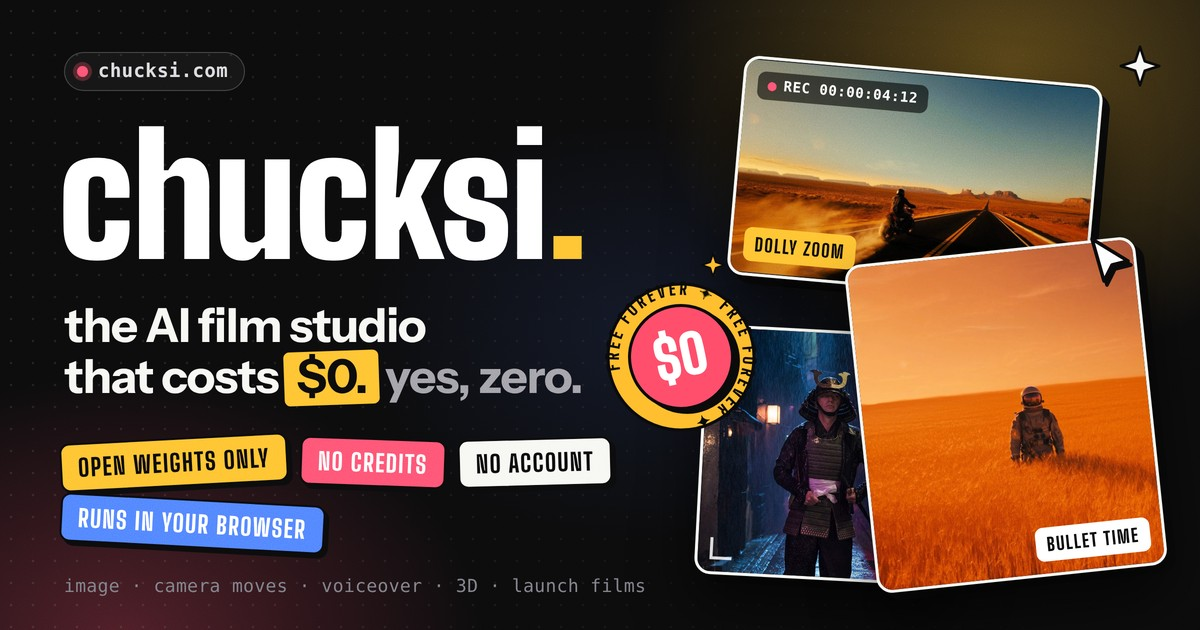
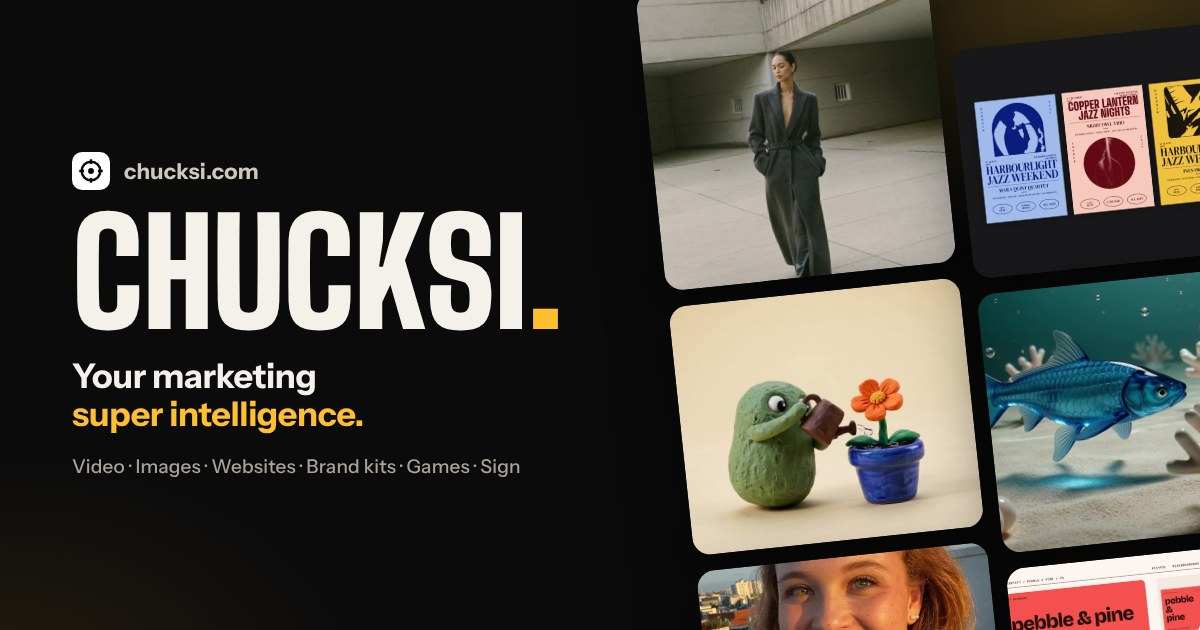
Cleaner Video hub (no Watch buttons, eyebrows or blurbs); new share image
Claude-Session: https://claude.ai/code/session_01PNWM9AuSBWnLEgpmAr6rZE

diff --git a/public/studios/video/index.html b/public/studios/video/index.html
@@ -60,33 +60,17 @@
           ></video>
         </div>
         <div class="hero-copy">
-          <p class="eyebrow">VIDEO STUDIO / CHUCKSI SESSIONS 001</p>
           <h1>IT'S<br /><em>SHOWTIME.</em></h1>
-          <p>
-            One artist. Two worlds. A championship moment, reimagined in motion.
-          </p>
           <div class="hero-actions">
-            <button
-              class="btn-accent"
-              data-watch="/media/music/showtime-animated.mp4"
-              data-title="Showtime · Animated"
-              data-credit=""
-            >
-              ▶ Watch the film</button
-            ><a class="btn-ghost" href="/music">Make a music preview ↗</a>
+            <a class="btn-accent" href="/video">Make a video</a>
           </div>
-          <span class="quiet-note"
-            >Tone Da Boss · animated study</span
-          >
         </div>
       </section>
       <section class="showcase-section">
         <div class="section-title">
           <div>
-            <p class="eyebrow">THE SCREENING ROOM</p>
             <h2>Every world has a rhythm.</h2>
           </div>
-          <p>Fresh films. Distinct styles. Press play.</p>
         </div>
         <div class="examples">
           <button
@@ -105,12 +89,10 @@
                 data-src="/media/music/showtime-transfer.mp4"
                 poster="/media/music/showtime-transfer.jpg"
                 aria-label="Showtime, reimagined"
-              ></video
-              ><span class="card-action">▶ Watch</span>
+              ></video>
             </div>
             <div class="example-copy">
               <h3>Showtime, reimagined</h3>
-              <p>From your photo to the center of the ring.</p>
             </div></button
           ><button
             class="example"
@@ -128,12 +110,10 @@
                 data-src="/media/showcase/clay-garden.mp4"
                 poster="/media/showcase/clay-garden.jpg"
                 aria-label="A little sunshine"
-              ></video
-              ><span class="card-action">▶ Watch</span>
+              ></video>
             </div>
             <div class="example-copy">
               <h3>A little sunshine</h3>
-              <p>Handmade textures. A small moment of magic.</p>
             </div></button
           ><button
             class="example"
@@ -151,21 +131,17 @@
                 data-src="/media/showcase/glass-tide.mp4"
                 poster="/media/showcase/glass-tide.jpg"
                 aria-label="Glass tide"
-              ></video
-              ><span class="card-action">▶ Watch</span>
+              ></video>
             </div>
             <div class="example-copy">
               <h3>Glass tide</h3>
-              <p>Dive into a completely impossible world.</p>
             </div>
           </button>
         </div>
         <div class="section-title">
           <div>
-            <p class="eyebrow">MAKE THESE IN YOUR BROWSER</p>
             <h2>A little motion. A big transformation.</h2>
           </div>
-          <p>Take a still somewhere unexpected.</p>
         </div>
         <div class="examples">
           <a class="example" href="/video?effect=lidar"
@@ -178,12 +154,10 @@
                 data-src="/media/clips/effect-lidar.mp4"
                 poster="/media/clips/effect-lidar-active.jpg"
                 aria-label="See the unseen"
-              ></video
-              ><span class="card-action">Explore ↗</span>
+              ></video>
             </div>
             <div class="example-copy">
               <h3>See the unseen</h3>
-              <p>Turn your image into a sweeping point cloud.</p>
             </div></a
           ><a class="example" href="/video?effect=vanish"
             ><div class="example-media">
@@ -195,12 +169,10 @@
                 data-src="/media/clips/effect-vanish.mp4"
                 poster="/media/clips/effect-vanish-active.jpg"
                 aria-label="Here. Then gone."
-              ></video
-              ><span class="card-action">Explore ↗</span>
+              ></video>
             </div>
             <div class="example-copy">
               <h3>Here. Then gone.</h3>
-              <p>Watch a scene dissolve into drifting particles.</p>
             </div></a
           ><a class="example" href="/video?effect=freeze"
             ><div class="example-media">
@@ -212,12 +184,10 @@
                 data-src="/media/clips/effect-freeze.mp4"
                 poster="/media/clips/effect-freeze.jpg"
                 aria-label="Stop the moment"
-              ></video
-              ><span class="card-action">Explore ↗</span>
+              ></video>
             </div>
             <div class="example-copy">
               <h3>Stop the moment</h3>
-              <p>Push in, freeze time and move around the scene.</p>
             </div></a
           >
         </div>
@@ -235,48 +205,37 @@
         </div>
         <div class="section-title">
           <div>
-            <p class="eyebrow">WORDS INTO PICTURES</p>
             <h2>Write it. Watch it.</h2>
           </div>
-          <p>Short films and series built from your own words.</p>
         </div>
         <div class="examples">
           <a class="example" href="/workflows?make=film-poem"
             ><div class="example-media">
-              <img src="/media/make/thumb-film-poem.webp" alt="Stills from a film poem: framed archive photographs with typed lines" loading="lazy" width="800" height="600" /><span class="card-action">Make it ↗</span>
+              <img src="/media/make/thumb-film-poem.webp" alt="Stills from a film poem: framed archive photographs with typed lines" loading="lazy" width="800" height="600" />
             </div>
             <div class="example-copy">
               <h3>Film poem</h3>
-              <p>A poem becomes a 20 to 40 second film, one frame per line.</p>
             </div></a
           ><a class="example" href="/film"
             ><div class="example-media">
-              <img src="/media/trailer.jpg" alt="A launch film frame" loading="lazy" width="800" height="600" /><span class="card-action">Explore ↗</span>
+              <img src="/media/trailer.jpg" alt="A launch film frame" loading="lazy" width="800" height="600" />
             </div>
             <div class="example-copy">
               <h3>Launch film</h3>
-              <p>A brief becomes a scored kinetic film.</p>
             </div></a
           ><a class="example" href="/workflows?make=festival"
             ><div class="example-media">
-              <img src="/media/make/thumb-festival.webp" alt="Festival posters in two colours" loading="lazy" width="800" height="600" /><span class="card-action">Make it ↗</span>
+              <img src="/media/make/thumb-festival.webp" alt="Festival posters in two colours" loading="lazy" width="800" height="600" />
             </div>
             <div class="example-copy">
               <h3>Festival series</h3>
-              <p>Posters plus feed and story sizes for the event.</p>
             </div></a
           >
         </div>
-        <p class="studio-footnote">
-          Gallery films are showcase studies. The open tools below them
-          run in Chucksi; external video models are not built-in generation
-          engines.
-        </p>
       </section>
     </main>
     <footer class="showcase-footer">
       <a href="/">CHUCKSI / OPEN CREATIVE TOOLS</a>
-      <p>Your idea. Your next experiment.</p>
       <a href="https://github.com/ChuckGPTX/massless">Explore the source ↗</a>
     </footer>
     <dialog class="cinema-dialog">

diff --git a/tools/og/og-src.html b/tools/og/og-src.html
@@ -1,0 +1,31 @@
+<!doctype html><html><head><meta charset="utf-8"><style>
+@font-face{font-family:BSD;src:url(/fonts/big-shoulders-display-latin-900-normal.woff2)}
+@font-face{font-family:IS;src:url(/fonts/instrument-sans-latin-500-normal.woff2);font-weight:500}
+@font-face{font-family:IS;src:url(/fonts/instrument-sans-latin-700-normal.woff2);font-weight:700}
+*{box-sizing:border-box;margin:0}
+body{width:1200px;height:630px;overflow:hidden;background:#0b0b0c;color:#f4f1ea;font-family:IS;position:relative}
+.glow{position:absolute;inset:0;background:radial-gradient(700px 420px at 92% 0%,rgba(255,191,47,.22),transparent 60%),radial-gradient(600px 400px at 0% 110%,rgba(255,191,47,.10),transparent 60%)}
+.left{position:absolute;left:72px;top:0;bottom:0;width:560px;display:flex;flex-direction:column;justify-content:center;gap:22px}
+.logo{display:flex;align-items:center;gap:14px;font:700 22px IS;letter-spacing:.01em;color:#cfc9bd}
+.logo i{width:38px;height:38px;border-radius:10px;background:#fff;display:grid;place-items:center}
+h1{font:900 146px/0.84 BSD;letter-spacing:-.005em;text-transform:uppercase}
+h1 b{color:#ffbf2f}
+.tag{font:700 34px/1.12 IS;letter-spacing:-.01em}
+.tag span{color:#ffbf2f}
+.list{font:500 19px IS;color:#a9a39a;letter-spacing:.01em}
+.grid{position:absolute;right:-70px;top:-40px;width:600px;height:700px;display:grid;grid-template-columns:1fr 1fr;gap:16px;transform:rotate(-6deg)}
+.col{display:flex;flex-direction:column;gap:16px}
+.col:nth-child(2){margin-top:90px}
+.t{border-radius:18px;overflow:hidden;background:#1a1a1d;box-shadow:0 20px 60px rgba(0,0,0,.55)}
+.t img{display:block;width:100%;height:100%;object-fit:cover}
+</style></head><body><div class="glow"></div>
+<div class="left">
+ <div class="logo"><i><svg width="26" height="26" viewBox="0 0 32 32"><circle cx="16" cy="16" r="11.5" fill="none" stroke="#0b0b0c" stroke-width="3"/><circle cx="16" cy="16" r="3.6" fill="#0b0b0c"/><path d="M16 1.5v6M16 24.5v6M1.5 16h6M24.5 16h6" stroke="#0b0b0c" stroke-width="3"/></svg></i>chucksi.com</div>
+ <h1>Chucksi<b>.</b></h1>
+ <p class="tag">Your marketing<br><span>super intelligence.</span></p>
+ <p class="list">Video · Images · Websites · Brand kits · Games · Sign</p>
+</div>
+<div class="grid">
+ <div class="col"><div class="t" style="height:300px"><img src="/media/website/editorial-shop/hero.webp"></div><div class="t" style="height:250px"><img src="/media/showcase/clay-garden.jpg"></div><div class="t" style="height:220px"><img src="/media/website/ai-product/rooftop.webp"></div></div>
+ <div class="col"><div class="t" style="height:230px"><img src="/media/make/thumb-festival.webp"></div><div class="t" style="height:260px"><img src="/media/showcase/glass-tide.jpg"></div><div class="t" style="height:230px"><img src="/media/make/thumb-identity.webp"></div></div>
+</div></body></html>

diff --git a/public/audio/index.html b/public/audio/index.html
@@ -11,12 +11,12 @@
   <meta property="og:url" content="https://chucksi.com/audio">
   <meta property="og:title" content="Free AI voiceover, captions and video to MP3 | Chucksi">
   <meta property="og:description" content="Turn a script into voiceover in six languages with open Kokoro and MeloTTS voices, make captions with Whisper, extract MP3, M4A or WAV from your own videos right in the browser, and render rain, wind or city ambience. $0.">
-  <meta property="og:image" content="https://chucksi.com/og.jpg?v=3">
+  <meta property="og:image" content="https://chucksi.com/og.jpg?v=4">
   <meta property="og:image:width" content="1200">
   <meta property="og:image:height" content="630">
-  <meta property="og:image:alt" content="chucksi. The AI film studio that costs $0. Open weights only, no credits, no account, runs in your browser.">
+  <meta property="og:image:alt" content="Chucksi. Your marketing super intelligence: video, images, websites, brand kits, games and sign.">
   <meta name="twitter:card" content="summary_large_image">
-  <meta name="twitter:image" content="https://chucksi.com/og.jpg?v=3">
+  <meta name="twitter:image" content="https://chucksi.com/og.jpg?v=4">
   <link rel="icon" href="/favicon.ico" sizes="32x32">
   <link rel="icon" href="/favicon.svg" type="image/svg+xml">
   <link rel="apple-touch-icon" href="/apple-touch-icon.png">

diff --git a/public/image/index.html b/public/image/index.html
@@ -11,12 +11,12 @@
   <meta property="og:url" content="https://chucksi.com/image">
   <meta property="og:title" content="Free AI image generator with a real camera rig | Chucksi">
   <meta property="og:description" content="Pick a camera body, lens and film stock, describe the shot, and an open-weight model like FLUX.1 or SDXL renders it. Free models need no account. MOSS Image offers a limited preview with sign-in.">
-  <meta property="og:image" content="https://chucksi.com/og.jpg?v=3">
+  <meta property="og:image" content="https://chucksi.com/og.jpg?v=4">
   <meta property="og:image:width" content="1200">
   <meta property="og:image:height" content="630">
-  <meta property="og:image:alt" content="chucksi. The AI film studio that costs $0. Open-weight image models, browser tools and a limited MOSS Image preview.">
+  <meta property="og:image:alt" content="Chucksi. Your marketing super intelligence: video, images, websites, brand kits, games and sign.">
   <meta name="twitter:card" content="summary_large_image">
-  <meta name="twitter:image" content="https://chucksi.com/og.jpg?v=3">
+  <meta name="twitter:image" content="https://chucksi.com/og.jpg?v=4">
   <link rel="icon" href="/favicon.ico" sizes="32x32">
   <link rel="icon" href="/favicon.svg" type="image/svg+xml">
   <link rel="apple-touch-icon" href="/apple-touch-icon.png">

diff --git a/public/video/index.html b/public/video/index.html
@@ -11,12 +11,12 @@
   <meta property="og:url" content="https://chucksi.com/video">
   <meta property="og:title" content="Camera moves and storyboards from any still | Chucksi">
   <meta property="og:description" content="Turn one still into a shot: 28 camera moves and one-tap effects (LiDAR scan, vanish, bullet time freeze, clones), rendered on your own device. Cut a storyboard and export MP4. $0.">
-  <meta property="og:image" content="https://chucksi.com/og.jpg?v=3">
+  <meta property="og:image" content="https://chucksi.com/og.jpg?v=4">
   <meta property="og:image:width" content="1200">
   <meta property="og:image:height" content="630">
-  <meta property="og:image:alt" content="chucksi. The AI film studio that costs $0. Open weights only, no credits, no account, runs in your browser.">
+  <meta property="og:image:alt" content="Chucksi. Your marketing super intelligence: video, images, websites, brand kits, games and sign.">
   <meta name="twitter:card" content="summary_large_image">
-  <meta name="twitter:image" content="https://chucksi.com/og.jpg?v=3">
+  <meta name="twitter:image" content="https://chucksi.com/og.jpg?v=4">
   <link rel="icon" href="/favicon.ico" sizes="32x32">
   <link rel="icon" href="/favicon.svg" type="image/svg+xml">
   <link rel="apple-touch-icon" href="/apple-touch-icon.png">

diff --git a/public/film/index.html b/public/film/index.html
@@ -11,12 +11,12 @@
   <meta property="og:url" content="https://chucksi.com/film">
   <meta property="og:title" content="Kinetic launch films from a brief, free | Chucksi">
   <meta property="og:description" content="Describe your product in a few lines. Chucksi writes the beat sheet, scores it at an exact tempo and cuts a kinetic type film to the beat, with real motion blur. MP4 out, $0.">
-  <meta property="og:image" content="https://chucksi.com/og.jpg?v=3">
+  <meta property="og:image" content="https://chucksi.com/og.jpg?v=4">
   <meta property="og:image:width" content="1200">
   <meta property="og:image:height" content="630">
-  <meta property="og:image:alt" content="chucksi. The AI film studio that costs $0. Open weights only, no credits, no account, runs in your browser.">
+  <meta property="og:image:alt" content="Chucksi. Your marketing super intelligence: video, images, websites, brand kits, games and sign.">
   <meta name="twitter:card" content="summary_large_image">
-  <meta name="twitter:image" content="https://chucksi.com/og.jpg?v=3">
+  <meta name="twitter:image" content="https://chucksi.com/og.jpg?v=4">
   <link rel="icon" href="/favicon.ico" sizes="32x32">
   <link rel="icon" href="/favicon.svg" type="image/svg+xml">
   <link rel="apple-touch-icon" href="/apple-touch-icon.png">

diff --git a/public/office/index.html b/public/office/index.html
@@ -11,12 +11,12 @@
   <meta property="og:url" content="https://chucksi.com/office">
   <meta property="og:title" content="Free PDF editor and converter | Chucksi">
   <meta property="og:description" content="Highlight, write on, draw on and sign PDFs, merge, split, rotate, compress or convert them, and send contracts for e-signature with end-to-end encryption. Runs in your browser. $0.">
-  <meta property="og:image" content="https://chucksi.com/og.jpg?v=3">
+  <meta property="og:image" content="https://chucksi.com/og.jpg?v=4">
   <meta property="og:image:width" content="1200">
   <meta property="og:image:height" content="630">
-  <meta property="og:image:alt" content="chucksi. The AI film studio that costs $0. Open weights only, no credits, no account, runs in your browser.">
+  <meta property="og:image:alt" content="Chucksi. Your marketing super intelligence: video, images, websites, brand kits, games and sign.">
   <meta name="twitter:card" content="summary_large_image">
-  <meta name="twitter:image" content="https://chucksi.com/og.jpg?v=3">
+  <meta name="twitter:image" content="https://chucksi.com/og.jpg?v=4">
   <link rel="icon" href="/favicon.ico" sizes="32x32">
   <link rel="icon" href="/favicon.svg" type="image/svg+xml">
   <link rel="apple-touch-icon" href="/apple-touch-icon.png">

diff --git a/public/3d/index.html b/public/3d/index.html
@@ -11,12 +11,12 @@
   <meta property="og:url" content="https://chucksi.com/3d">
   <meta property="og:title" content="Image to 3D, free | Chucksi">
   <meta property="og:description" content="Turn a still into a scene you can orbit. Explore depth, reconstruct objects and export your work.">
-  <meta property="og:image" content="https://chucksi.com/og.jpg?v=3">
+  <meta property="og:image" content="https://chucksi.com/og.jpg?v=4">
   <meta property="og:image:width" content="1200">
   <meta property="og:image:height" content="630">
-  <meta property="og:image:alt" content="chucksi. The AI film studio that costs $0. Open weights only, no credits, no account, runs in your browser.">
+  <meta property="og:image:alt" content="Chucksi. Your marketing super intelligence: video, images, websites, brand kits, games and sign.">
   <meta name="twitter:card" content="summary_large_image">
-  <meta name="twitter:image" content="https://chucksi.com/og.jpg?v=3">
+  <meta name="twitter:image" content="https://chucksi.com/og.jpg?v=4">
   <link rel="icon" href="/favicon.ico" sizes="32x32">
   <link rel="icon" href="/favicon.svg" type="image/svg+xml">
   <link rel="apple-touch-icon" href="/apple-touch-icon.png">

diff --git a/public/sign/index.html b/public/sign/index.html
@@ -12,7 +12,7 @@
   <meta property="og:url" content="https://chucksi.com/sign">
   <meta property="og:title" content="Chucksi Sign: free, open-source e-signatures">
   <meta property="og:description" content="End-to-end encrypted e-signatures with a Certificate of Completion. Free and open source.">
-  <meta property="og:image" content="https://chucksi.com/og.jpg?v=3">
+  <meta property="og:image" content="https://chucksi.com/og.jpg?v=4">
   <meta name="twitter:card" content="summary_large_image">
   <link rel="icon" href="/favicon.ico" sizes="32x32">
   <link rel="icon" href="/favicon.svg" type="image/svg+xml">

diff --git a/tools/og/README.md b/tools/og/README.md
@@ -1,0 +1,3 @@
+# Share image
+
+`og-src.html` is the source of `public/og.jpg` (1200x630). Serve `public/` locally, copy this file into it, open it and screenshot at 1200x630.
